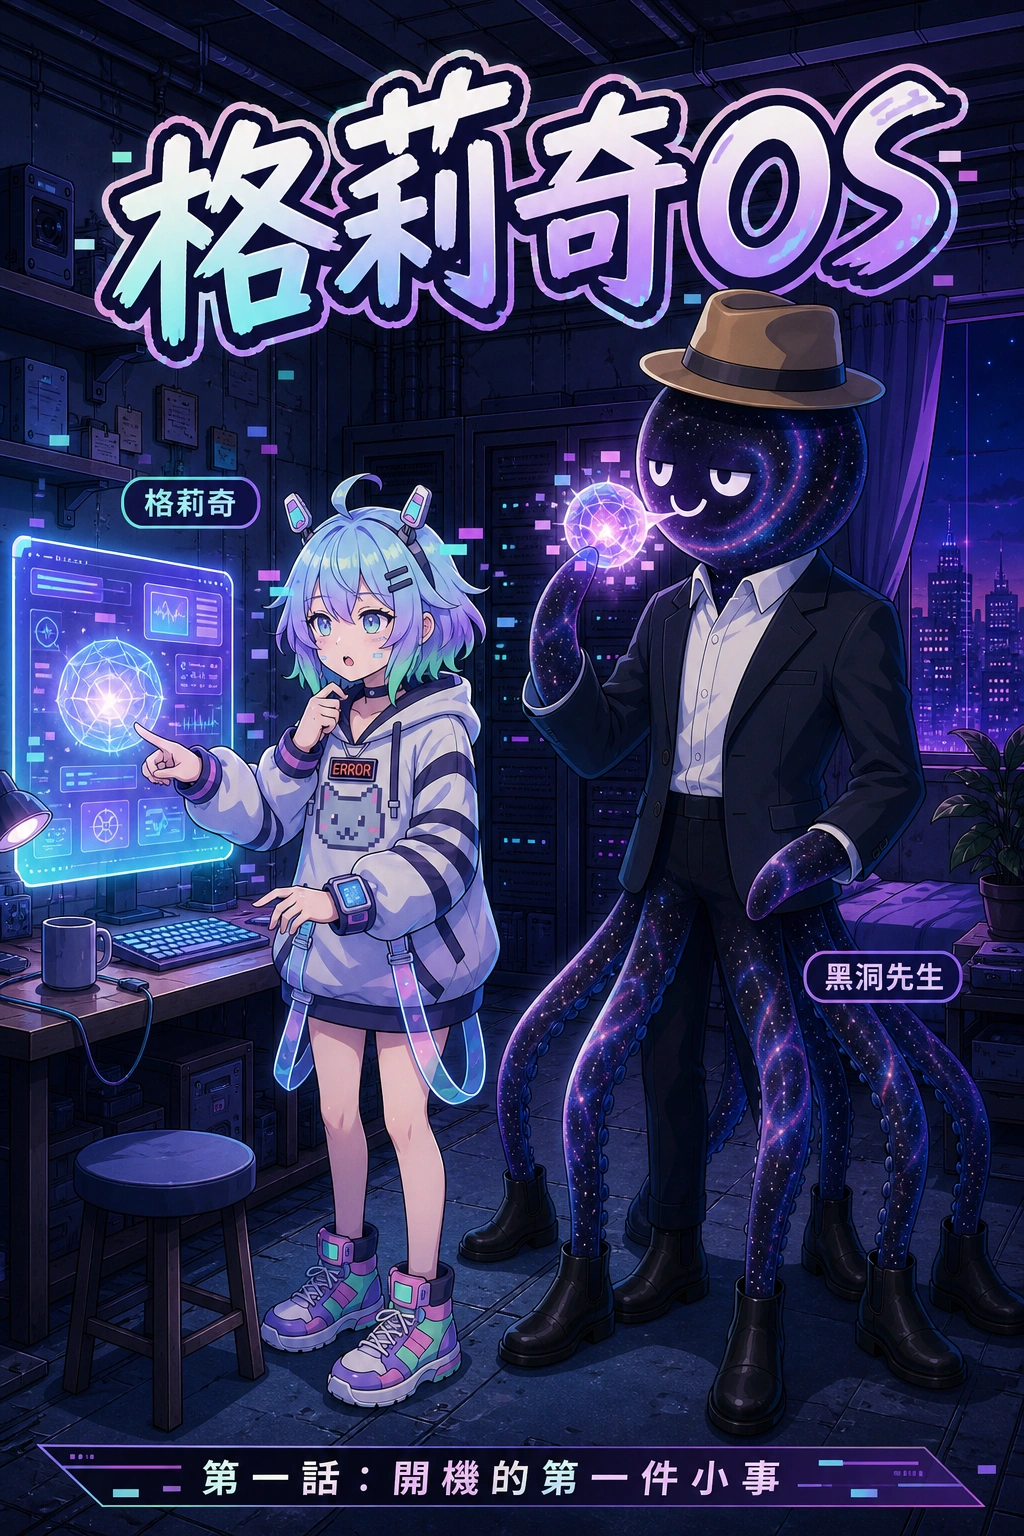
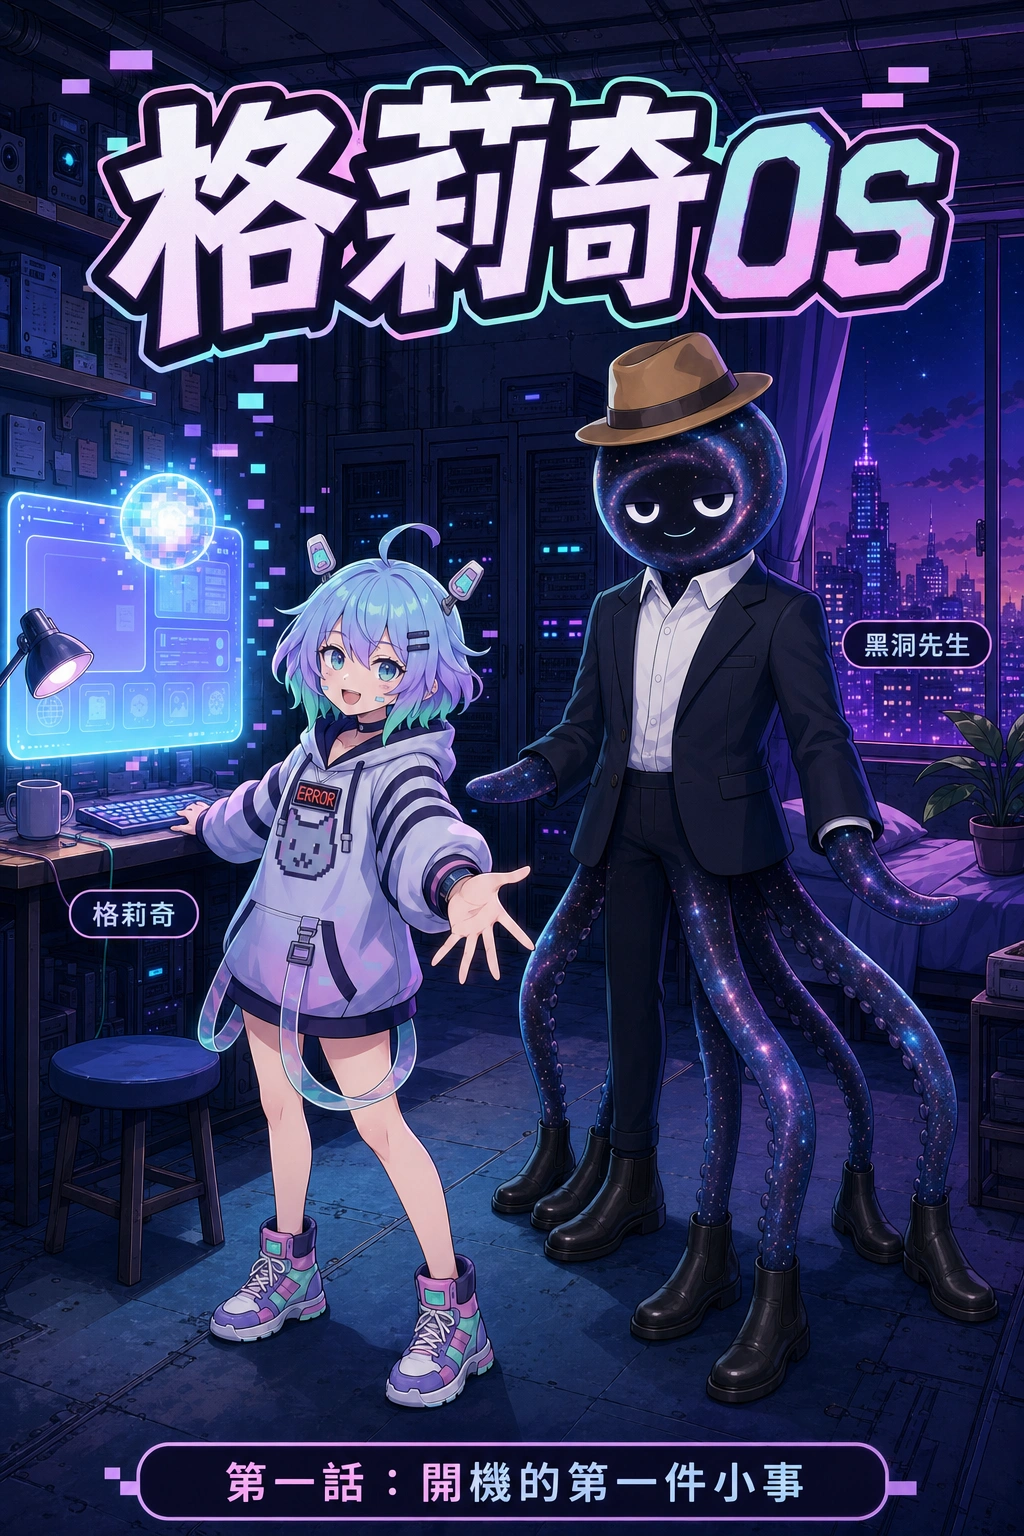
封面重畫：格莉奇有三隻手 (#12)
第三隻畫在她身側、桌沿旁邊，有手掌沒有袖子，姿勢自然，所以整張看起來完全正常。
出圖驗收判了合格——規則 E 就是抓「肢體接在不該接的地方」的，封面上漏了。

只重生封面，六頁內頁走 if out.is_file(): continue 跳過（211 秒，0.50MB）。
新封面兩隻手，而且黑洞先生的白色微笑弧線與格莉奇左側的髮夾這次都畫對了。
七張全部通過出圖驗收。

story/verify.md 的規則 E 補一句：格莉奇的手臂要數，正好兩隻，封面最容易出這個錯。
把 2026-08-25 這次的漏抓寫進去當理由——這份文件開頭就說「規則寫得不夠死，
判定就會飄」，那條規則寫的是通則，通則在封面那種大構圖上不夠死。

diff --git a/sw.js b/sw.js
@@ -10,7 +10,7 @@
    build.py 就會自己變;要強制所有讀者重來,改 build.py 的 EPOCH。 */
 /* ver:start */
 const SHELL = 'glitchos-shell-v20-0b4c315f';
-const ASSET = 'glitchos-asset-v20-c9a99406';
+const ASSET = 'glitchos-asset-v20-86fbd6ba';
 /* ver:end */
 
 /* 以下兩份清單由 build.py 從 episodes.json 產生,別手改。 */
